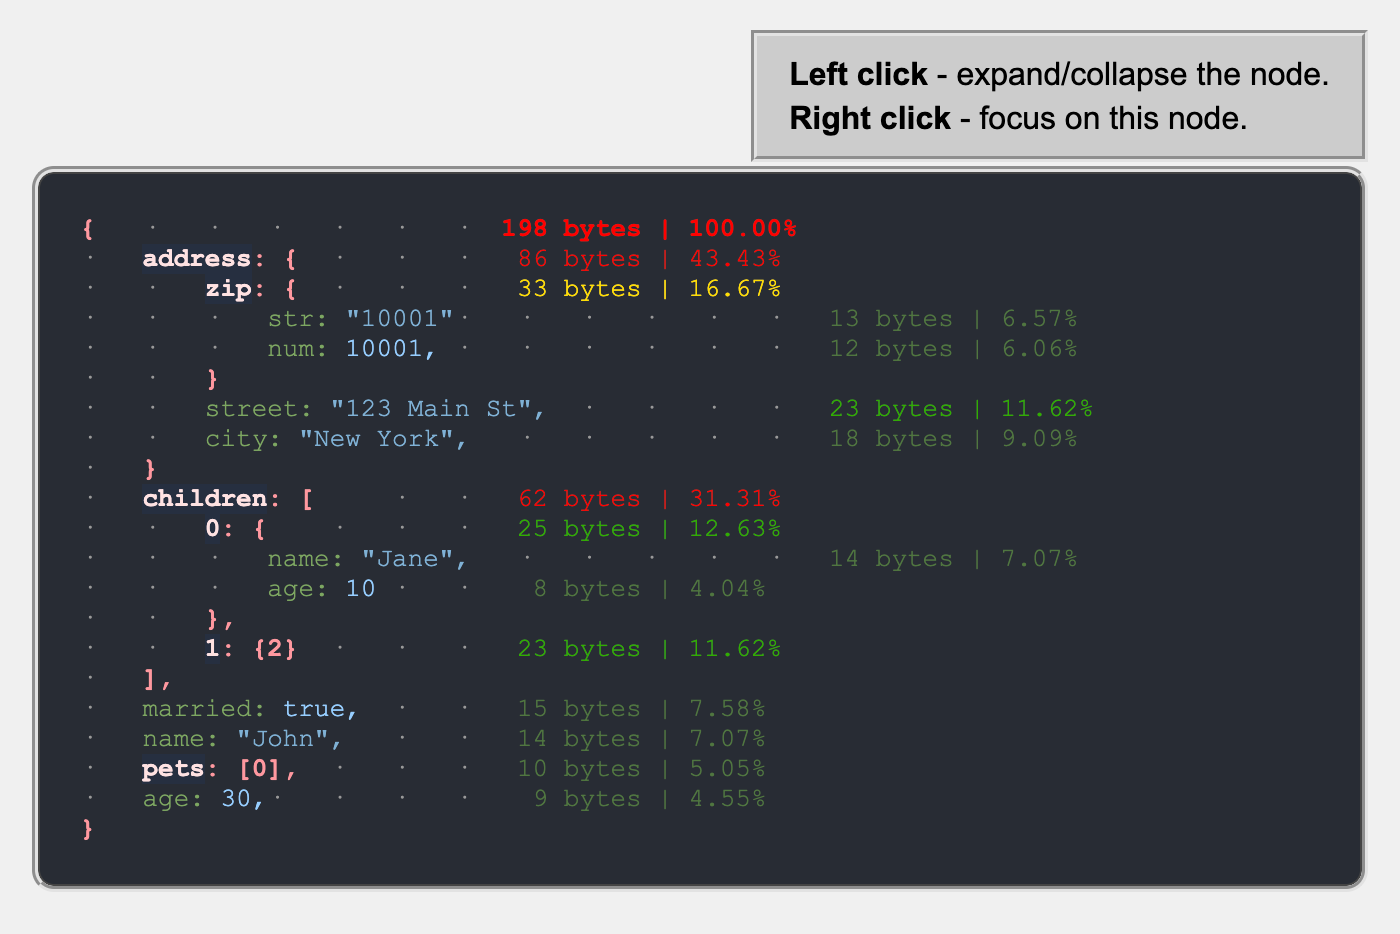
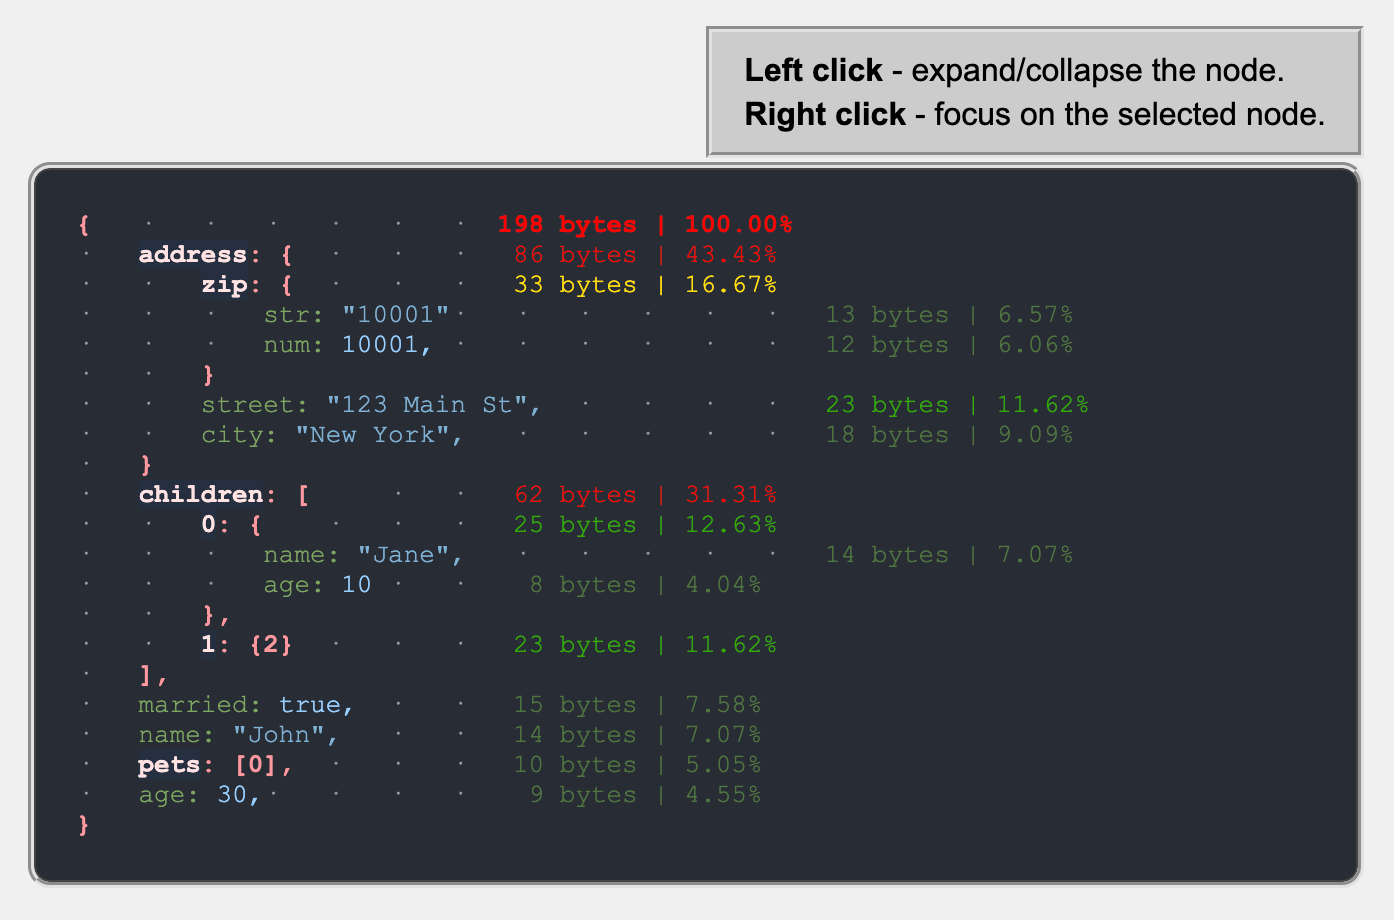
words

diff --git a/jsonSize.html b/jsonSize.html
@@ -149,7 +149,7 @@
         </div>
         <div id="hints" class="hints">
             <p><b>Left click</b> - expand/collapse the node.</p>
-            <p><b>Right click</b> - focus on this node.</p>
+            <p><b>Right click</b> - focus on the selected node.</p>
         </div>
     </div>
     <div id="json-display" class="json-container"></div>
